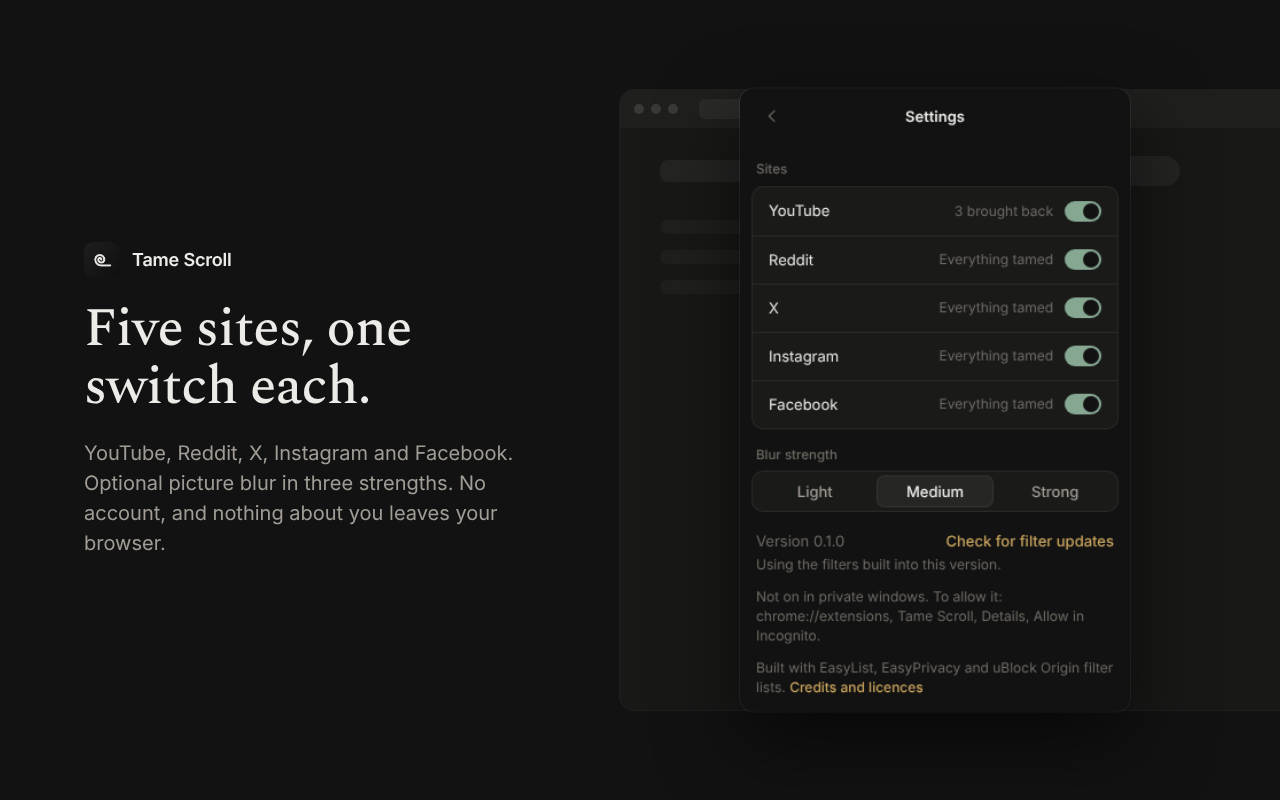
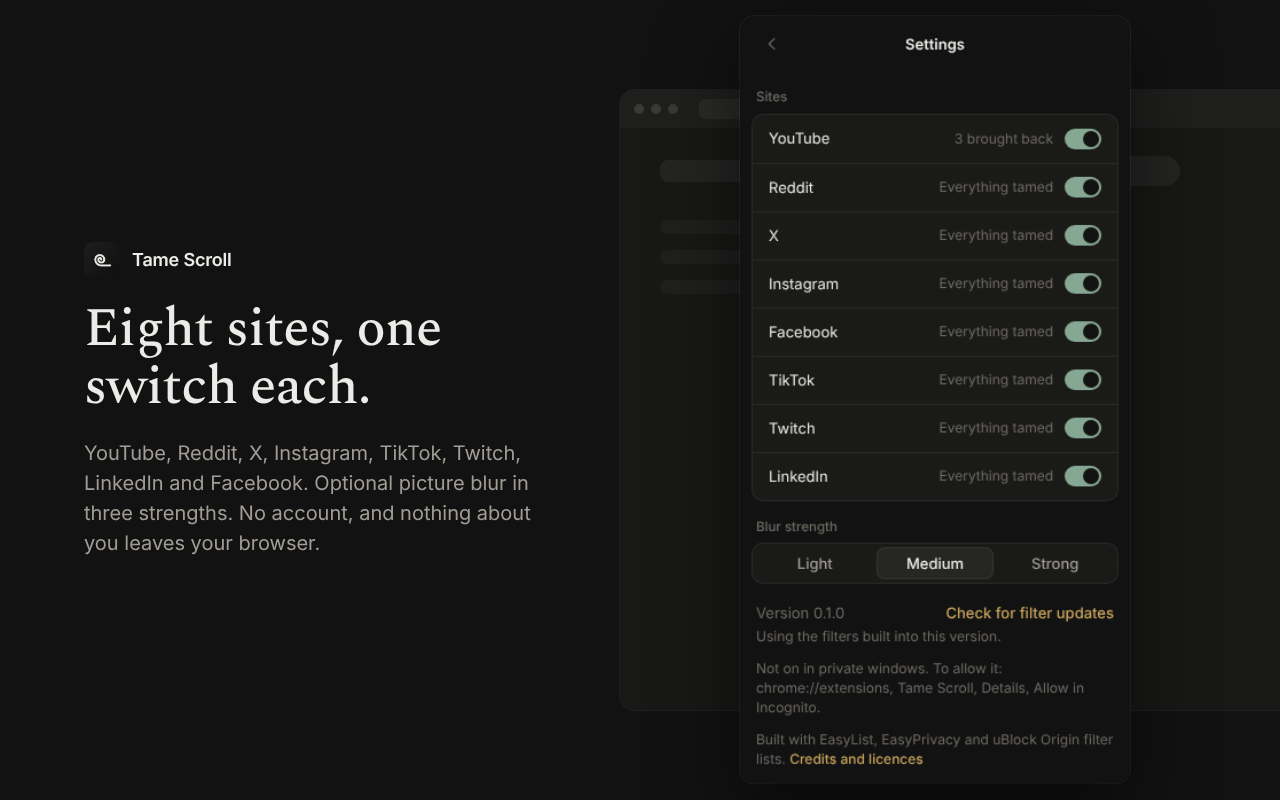
Store listing: TikTok, Twitch and LinkedIn; store-check names the listed hosts
The listing, permission justifications, privacy page and screenshot 4 now
name the eight sites in the store build. store-check.mjs fails when the
package reaches a host the listing does not name (Pinterest stays out).

Claude-Session: https://claude.ai/code/session_01N5UufELCEUS5yzngPvTa4K

diff --git a/web/privacy.html b/web/privacy.html
@@ -52,7 +52,7 @@
   </ul>
 
   <h2>The browser extension</h2>
-  <p>The Tame Scroll extension for Chrome, Edge and Firefox collects no personal data either. It runs only on the sites it serves (YouTube, Reddit, X, Instagram and Facebook) and does three things there, all inside your browser:</p>
+  <p>The Tame Scroll extension for Chrome, Edge and Firefox collects no personal data either. It runs only on the sites it serves (YouTube, Reddit, X, Instagram, Facebook, TikTok, Twitch and LinkedIn) and does three things there, all inside your browser:</p>
   <ul>
     <li><b>It hides parts of those pages and blurs pictures if you ask.</b> To decide what to hide, and to show you what it hid, it reads the page's layout and, for sign-in pop-ups, the pop-up's own wording (so it can leave age checks alone). Nothing it reads is stored, sent anywhere, or used for anything else.</li>
     <li><b>It keeps your settings</b> (which sites are on, what you brought back, blur strength) in your browser's extension storage. They never leave your browser and are not synced.</li>

diff --git a/store/chrome-web-store/README.md b/store/chrome-web-store/README.md
@@ -26,10 +26,11 @@ What the store build changes against the developer build:
   swaps that file for `src/dev-reload-store.js`, which does nothing: no
   `build-id.txt`, no `management` call, no `runtime.reload`. Store
   installs are updated by the store.
-- **No TikTok.** It has never been checked live (it is blocked in India),
-  so the store build leaves out its site access and its switch. The
-  listing must not offer what nobody has seen work. Remove `notInStore`
-  in `src/sites.js` once it has had a live pass.
+- **Only sites that have had a live pass.** Pinterest carries
+  `notInStore` in `src/sites.js` (only Explore was checked), so the store
+  build leaves out its site access and its switch: the listing must not
+  offer what nobody has seen work. `store-check.mjs` fails if the package
+  reaches a site this listing does not name.
 - **The 128px icon has a clear margin** (96px glyph, rounded corners), as
   the store's image guidelines ask.
 
@@ -69,9 +70,12 @@ WHAT IT DOES
 • Reddit: hides r/popular, r/all, News and Explore, and posts from communities you have not joined.
 • X: hides the For you tab, Explore trends and sidebar suggestions such as "Who to follow".
 • Instagram: hides Explore, Reels and suggested posts from accounts you don't follow.
+• TikTok: hides the For You feed, Explore, LIVE, short dramas and suggested accounts, and stops the endless swipe on an opened video.
+• Twitch: hides home recommendations, recommended channels and the Browse menu.
+• LinkedIn: hides LinkedIn News and posts from people you don't follow.
 • Facebook: hides sign-in pop-ups on public pages when you are signed out.
 • Optional picture blur on each site, in three strengths.
-• Ads: hidden by default on Reddit, X, Instagram and Facebook. On YouTube, ads stay shown unless you switch them off yourself.
+• Ads: hidden by default on every site except YouTube. On YouTube, ads stay shown unless you switch them off yourself.
 • Sign-in pop-ups: hides "log in to see more" pop-ups when you are signed out. Real login pages, and age or mature-content checks, are always left alone.
 
 BRING BACK ONLY WHAT YOU WANT
@@ -83,7 +87,7 @@ No account, no analytics, no tracking, no server of ours. Your settings stay in 
 OPEN SOURCE
 The code is public at https://github.com/tamescroll/tamescroll. Ad and tracker filters come from EasyList, EasyPrivacy and the uBlock Origin filter lists; credits and licences are in the extension's Settings.
 
-Tame Scroll is an independent project, not affiliated with or endorsed by Google, YouTube, Reddit, X, Meta or Instagram.
+Tame Scroll is an independent project, not affiliated with or endorsed by Google, YouTube, Reddit, X, Meta, Instagram, TikTok, Twitch or LinkedIn.
 ```
 
 **Images** (in this folder, regenerate with `node store/chrome-web-store/shots.mjs`
@@ -109,7 +113,7 @@ appears, and no live site was loaded to make them.
 **Single purpose:**
 
 ```
-Tame Scroll makes social media sites less compulsive to use. On the sites it serves (YouTube, Reddit, X, Instagram, Facebook) it hides the page elements designed to keep people scrolling, such as algorithmic feeds, Shorts and Reels, autoplay, suggested posts, ads and sign-in pop-ups, and can blur pictures. Every part can be brought back per site.
+Tame Scroll makes social media sites less compulsive to use. On the sites it serves (YouTube, Reddit, X, Instagram, Facebook, TikTok, Twitch, LinkedIn) it hides the page elements designed to keep people scrolling, such as algorithmic feeds, Shorts and Reels, autoplay, suggested posts, ads and sign-in pop-ups, and can blur pictures. Every part can be brought back per site.
 ```
 
 **Permission justifications:**
@@ -129,7 +133,7 @@ Registers and unregisters the extension's own bundled page scripts as the user c
 Schedules the once-a-day check for updated filter rules (a data file of CSS selectors, verified by SHA-256 before use).
 ```
 
-Host permissions (`https://www.youtube.com/*`, `https://m.youtube.com/*`, `https://www.reddit.com/*`, `https://x.com/*`, `https://www.instagram.com/*`, `https://www.facebook.com/*`, plus content scripts on `old.reddit.com` and YouTube embeds):
+Host permissions (`https://www.youtube.com/*`, `https://m.youtube.com/*`, `https://www.reddit.com/*`, `https://x.com/*`, `https://www.instagram.com/*`, `https://www.facebook.com/*`, `https://www.tiktok.com/*`, `https://www.twitch.tv/*`, `https://www.linkedin.com/*`, plus content scripts on `old.reddit.com` and YouTube embeds):
 ```
 These are the only sites the extension changes. On each it adds a stylesheet that hides the distracting parts the user has not brought back, applies picture blur if the user turned it on, and reports to the popup what was hidden on the page. old.reddit.com is opened on www.reddit.com while Reddit is switched on, because the hiding rules only match the current Reddit layout. Embedded YouTube players on other sites get a stylesheet (inside the player frame only) that hides the end-of-video suggestions. The extension has no access to any other site.
 ```
@@ -169,14 +173,14 @@ it found.
 
 | Policy | Finding |
 |---|---|
-| Single purpose | One purpose, less compulsive social media, on five named sites. Ad hiding and sign-in pop-up hiding are disclosed as part of it. |
-| Permissions | `storage`, `scripting`, `alarms` and the five sites only. No `tabs`, no `<all_urls>`, no `management` (`getSelf` needs no permission, and the store build does not call it). `store-check.mjs` fails the build if a new one appears. |
+| Single purpose | One purpose, less compulsive social media, on eight named sites. Ad hiding and sign-in pop-up hiding are disclosed as part of it. |
+| Permissions | `storage`, `scripting`, `alarms` and the eight sites only. No `tabs`, no `<all_urls>`, no `management` (`getSelf` needs no permission, and the store build does not call it). `store-check.mjs` fails the build if a new one appears. |
 | Remote code (MV3) | All JS ships in the package. The daily update is CSS selectors, blur CSS and a JSON list of names, hash-checked; none is executed. **Fixed:** page bundles carried the ad scriptlets' source as text strings (60 KB, unused there) and now carry only the cosmetic rules; the scriptlets live in `youtube-ads.js` alone. |
 | Remote off switch | `rules/kill.json` holds two lists of names from a fixed set (sites whose ad hiding is off, script ids to unregister). It can only turn bundled scripts off, never add one: config, not code. |
 | Self-update from the PC | **Fixed:** left out of the store build entirely (see section 1). |
 | Ad blocking | Allowed in the store. YouTube's ads start shown, so blocking there is the user's act; disclosed in the description. Filter lists credited with their licences (GPLv3, CC BY-SA, MPL-2.0) in `THIRD-PARTY-NOTICES.txt`. |
 | Sign-in pop-ups | Hides only signed-out pop-ups the user did not open, never real login pages or age gates (PR #72 legal review). Worded "hides sign-in pop-ups", never "browse without an account". |
-| Deceptive behaviour / misrepresented functionality | Listing claims only what has had a live desktop pass: YouTube, Reddit, X and Instagram signed in; Facebook signed out only. **Fixed:** TikTok left out of the store build. |
+| Deceptive behaviour / misrepresented functionality | Listing claims only what has had a live desktop pass: YouTube, Reddit, X, Instagram and LinkedIn signed in; TikTok, Twitch and Facebook signed out (Facebook claims only its signed-out pop-ups). Pinterest left out of the store build until it has had a full pass. |
 | Redirects | Reddit's discovery pages open the home page, a YouTube short opens as a normal video, old.reddit opens on www.reddit, each only while that switch is on, and all disclosed. |
 | User data / privacy | No collection, no transmission beyond the rules fetch (IP seen by GitHub). Privacy policy gains an extension section. |
 | Obfuscation | Bundles are not minified, as the store asks for readable code. |

diff --git a/extension/README.md b/extension/README.md
@@ -96,7 +96,7 @@ extension's menu.
 Everything for the Chrome Web Store (listing text, permission
 justifications, images, the policy check) is in
 `store/chrome-web-store/README.md`. `node build.mjs --store` makes the
-store packages: no developer self-reload, no TikTok until it has had a
+store packages: no developer self-reload, no site without a
 live pass, and `node store-check.mjs` fails on anything a store package
 must not carry.
 
